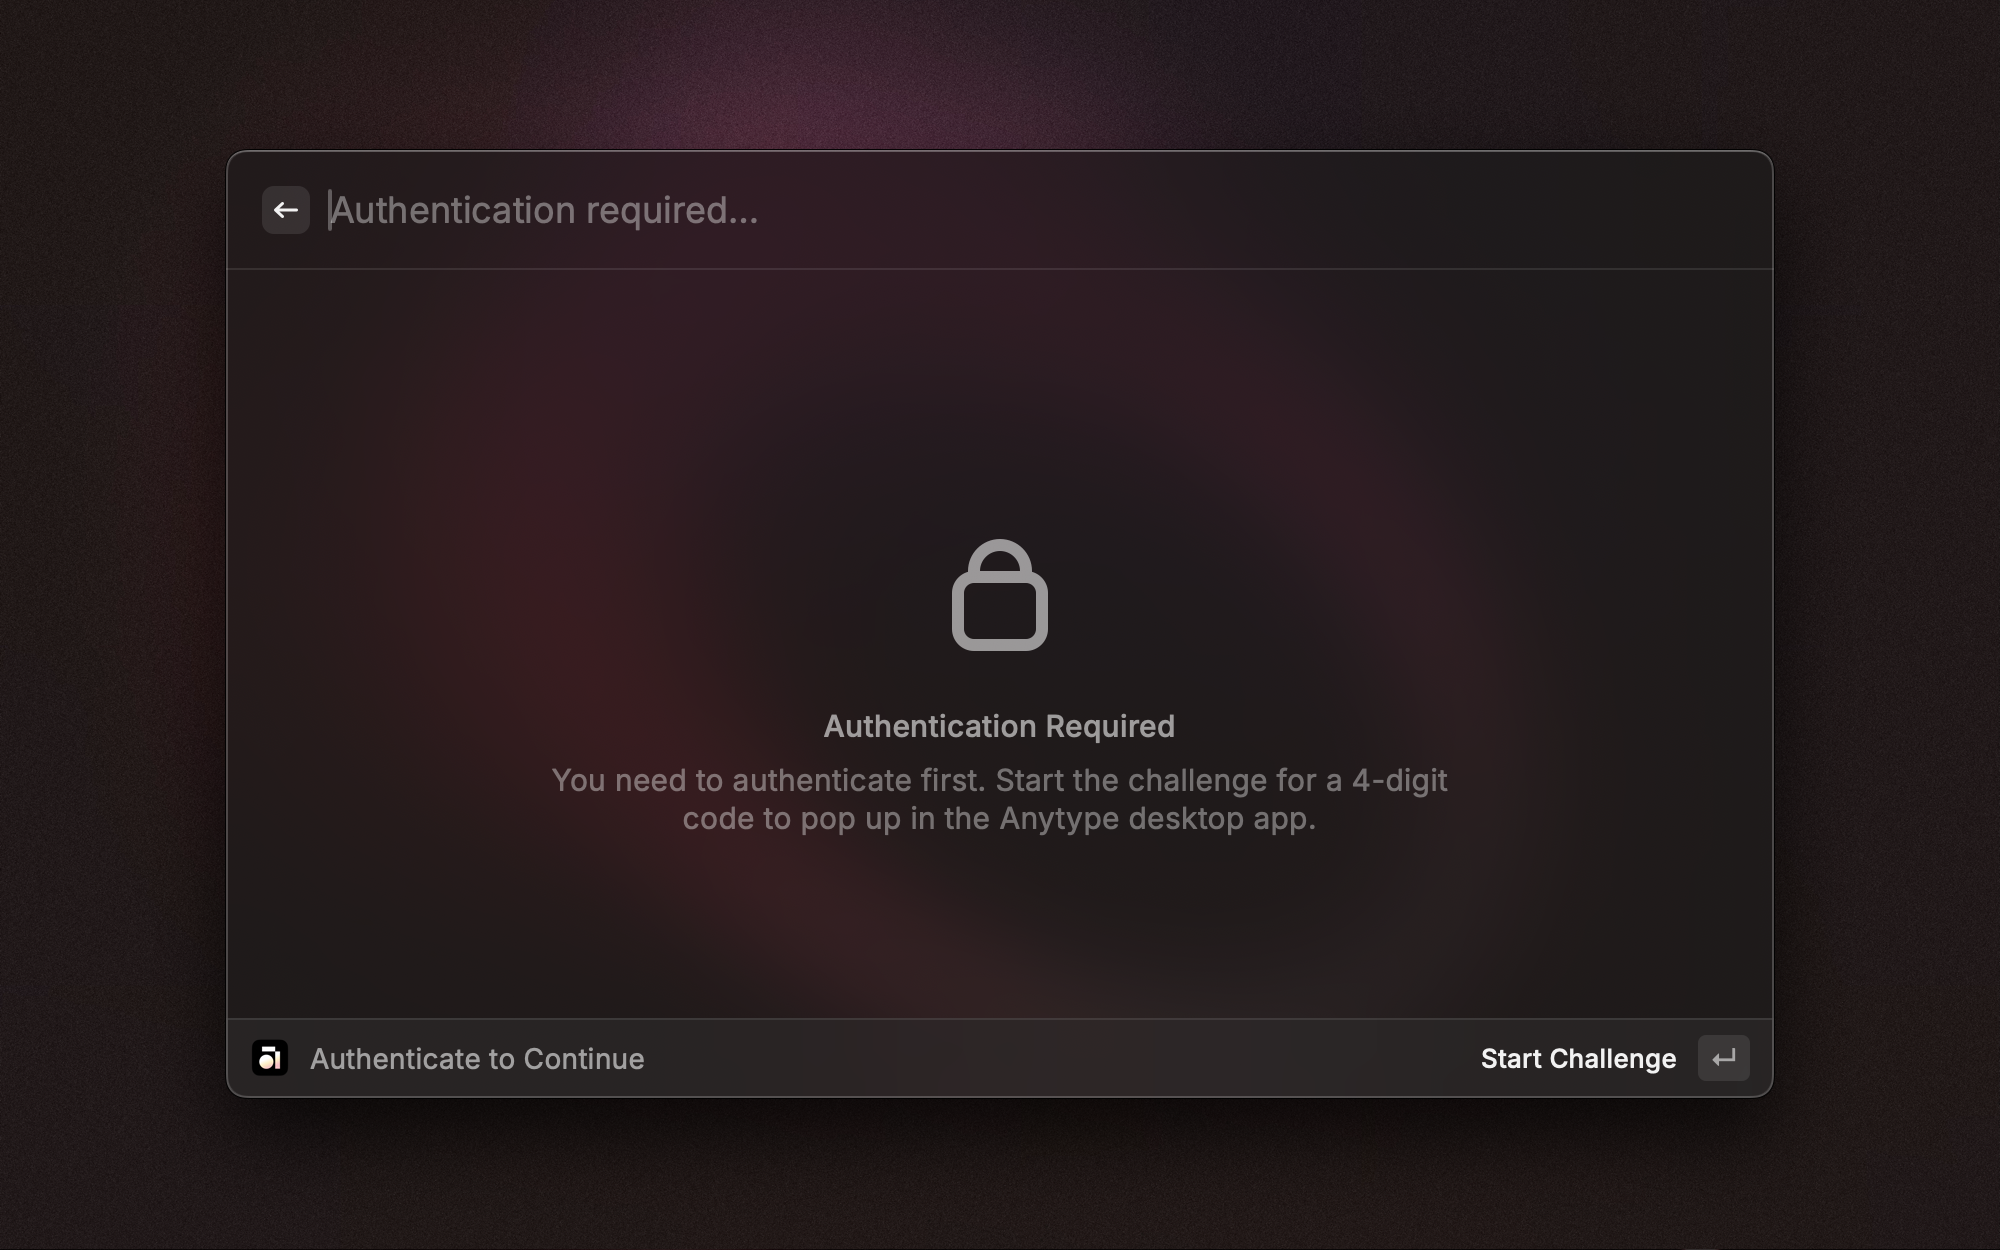
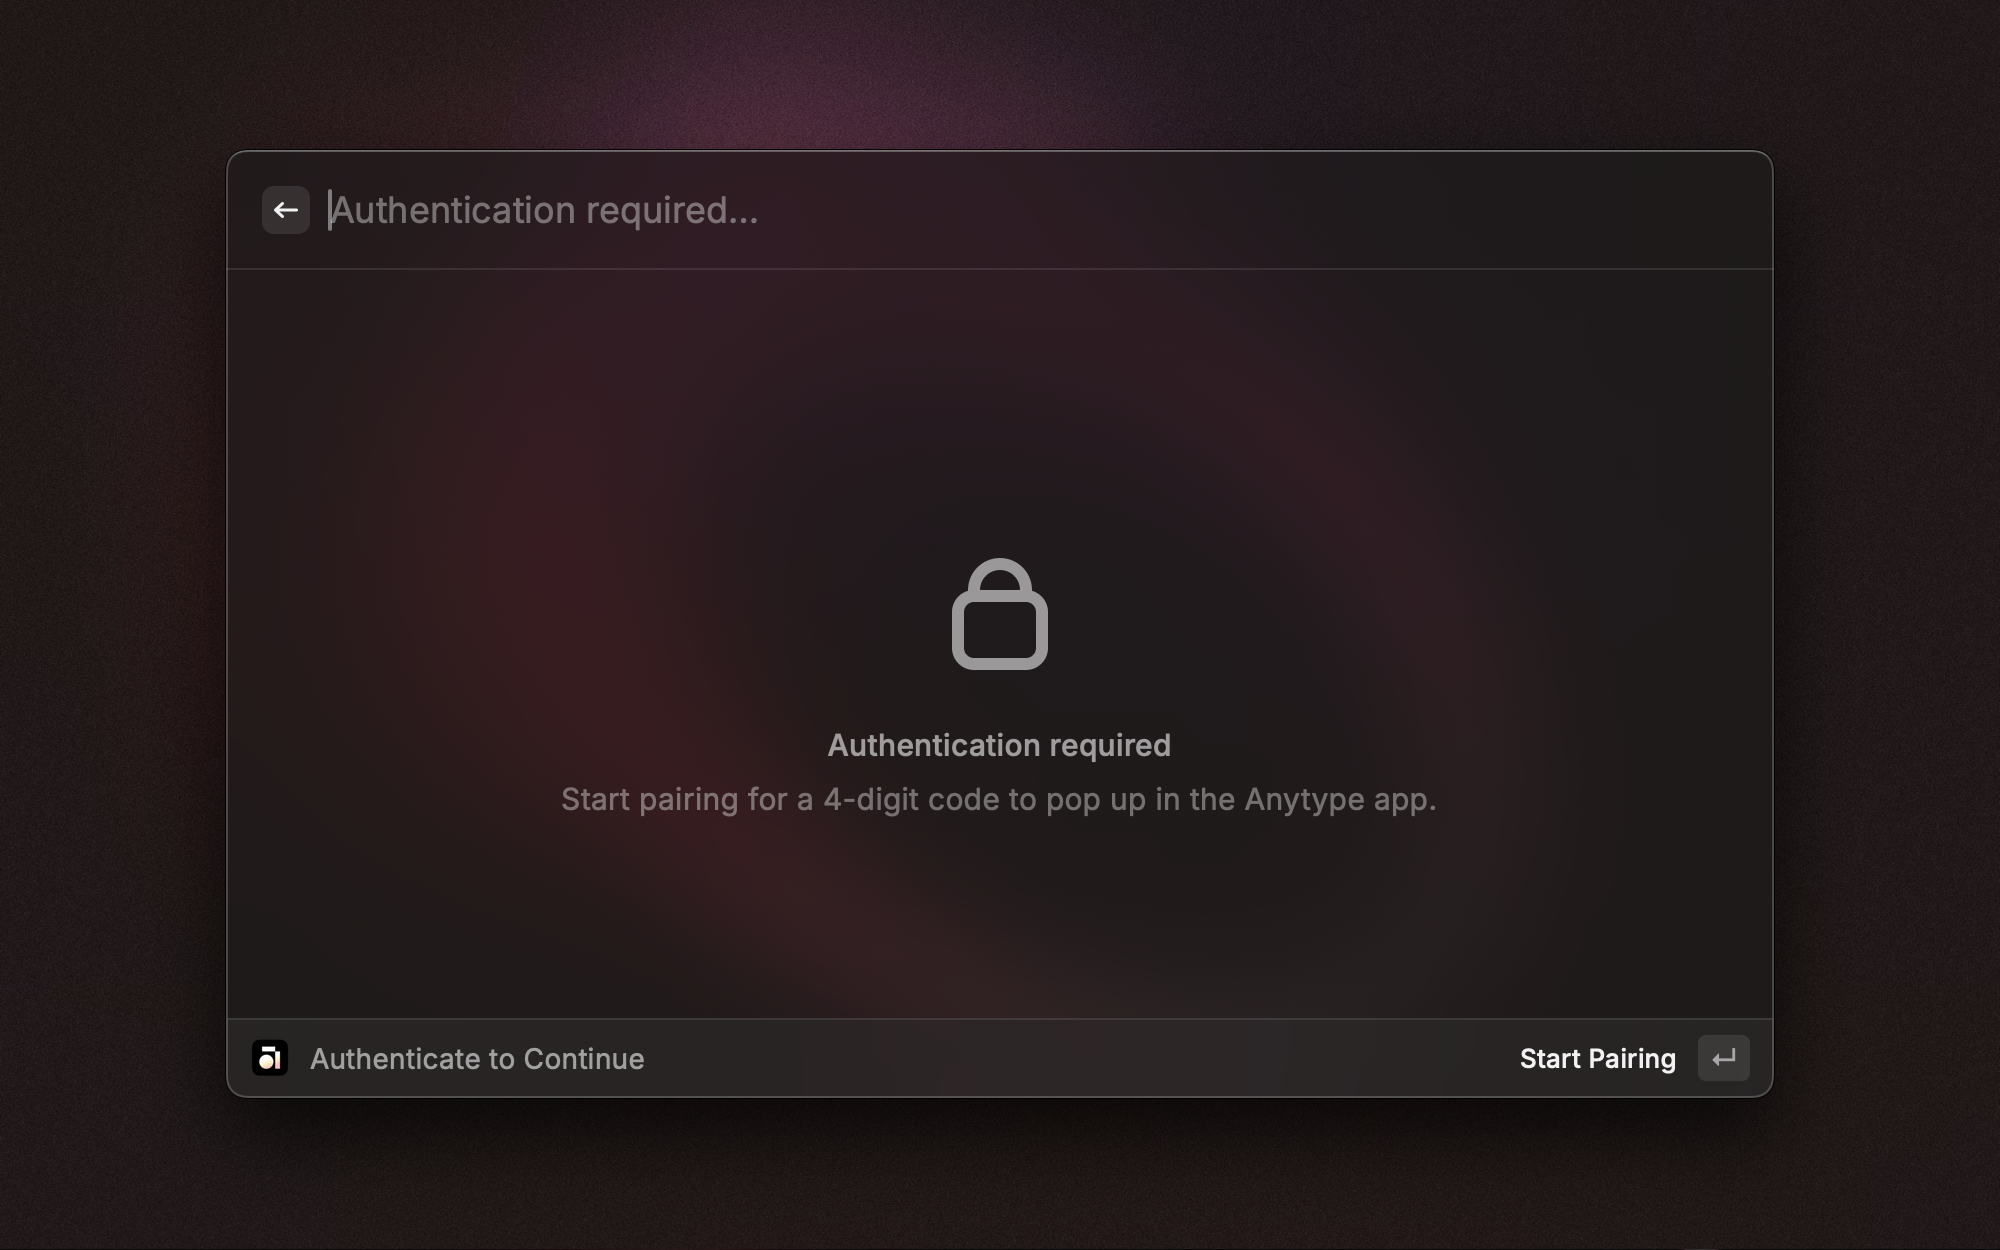
Update auth component and screenshot

Changed region(s): [[0.279, 0.4368, 0.713, 0.6864], [0.744, 0.8424, 0.837, 0.8736]]

diff --git a/src/components/EnsureAuthenticated.tsx b/src/components/EnsureAuthenticated.tsx
@@ -157,7 +157,7 @@ export default function EnsureAuthenticated({ placeholder, viewType, children }:
       <List.EmptyView
         icon={Icon.Lock}
         title="Authentication required"
-        description="Start pairing for a 4-digit code to pop up in the app."
+        description="Start pairing for a 4-digit code to pop up in the Anytype app."
         actions={
           <ActionPanel>
             <Action title="Start Pairing" onAction={startChallenge} />
